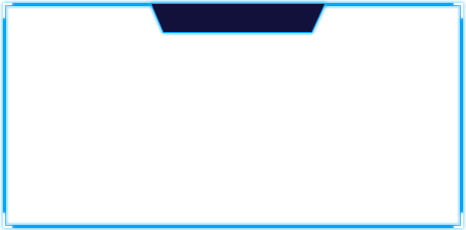
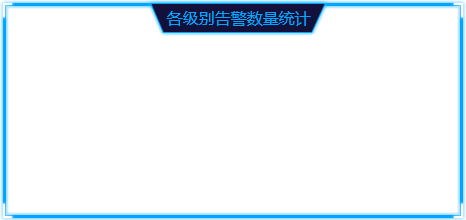
@ 20180118 zhanghs | 各级别告警数量统计

Changed region(s): [[0.3305, 0.0545, 0.691, 0.1636], [0.0, 0.0, 0.9914, 0.0273], [0.03, 0.9545, 0.9914, 0.9818]]

diff --git a/screen-show/css/alarm.scss b/screen-show/css/alarm.scss
@@ -48,7 +48,7 @@
 
         #a_yz_tj {
             display: grid;
-            grid-template-row: 1fr 1fr;
+            grid-template-rows: 1fr 1fr;
             grid-gap: 20px;
 
             > * {
@@ -57,8 +57,46 @@
         }
         /* 各级别告警数量统计 */
         #a_yz_sltj {
-            background-image: url("../img/b4.png");
+            background-image: url("../img/b3.png");
             @include no-repeat;
+
+            h3 {
+                font-size: 18px;
+                font-weight: normal;
+                margin: 0;
+            }
+
+            i {
+                font-size: 12px;
+                font-style: normal;
+            }
+
+
+            .a_infor {
+                display: flex;
+                flex-direction: row;
+                flex-wrap: nowrap;
+                margin-top: 10px;
+
+                > * {
+                    flex-grow: 1;
+                    font-size: 0;
+                    text-align: center;
+                    border-right: 2px solid #00a5ff;
+                }
+
+                > *:last-child {
+                    border-right: none;
+                }
+            }
+
+            .a_main {
+                height: 58px;
+                line-height: 58px;
+                text-align: center;
+                font-size: 0px;
+            }
+
         }
 
         /* 告警数量走势图 */
@@ -107,4 +145,42 @@
 
         }
     }
+
+    h2._h2 {
+        font-size: 24px;
+        text-align: center;
+        font-weight: normal;
+        margin: 0;
+        margin-top: 40px
+    }
+
+
+    [class$="_bigfont"] {
+        font-size: 72px;
+        background-image: linear-gradient(to top, #00a5ff 25%, #71cdff 99%), linear-gradient(#fefeff, #fefeff);
+        -webkit-background-clip: text;
+          background-clip: text;
+          -webkit-text-fill-color: transparent;
+        text-shadow: none;
+    }
+    
+    .a_unit {
+        font-size:24px !important;
+        margin-left: 10px;
+    }
+
+    .a_smallfont {
+        font-size: 30px;
+    }
+
+
+
+
+    // .a_yz_bigfont {
+    //     font-size: 72px;
+    //     font-weight: bold;
+    //     background-image: linear-gradient(to top, rgb(0, 165, 255) 25%, rgb(113, 205, 255) 99%), linear-gradient(rgb(254, 254, 255), rgb(254, 254, 255));
+    //     background-clip: text;
+    //     -webkit-text-fill-color: transparent;
+    // }
 }

diff --git a/screen-show/css/alarm.css b/screen-show/css/alarm.css
@@ -34,15 +34,39 @@
     background-color: black; }
   #alarm #a_yz #a_yz_tj {
     display: grid;
-    grid-template-row: 1fr 1fr;
+    grid-template-rows: 1fr 1fr;
     grid-gap: 20px; }
     #alarm #a_yz #a_yz_tj > * {
       background-color: red; }
   #alarm #a_yz #a_yz_sltj {
-    background-image: url("../img/b4.png");
+    background-image: url("../img/b3.png");
     background-repeat: no-repeat;
     background-size: 100% 100%;
     background-position: center center; }
+    #alarm #a_yz #a_yz_sltj h3 {
+      font-size: 18px;
+      font-weight: normal;
+      margin: 0; }
+    #alarm #a_yz #a_yz_sltj i {
+      font-size: 12px;
+      font-style: normal; }
+    #alarm #a_yz #a_yz_sltj .a_infor {
+      display: flex;
+      flex-direction: row;
+      flex-wrap: nowrap;
+      margin-top: 10px; }
+      #alarm #a_yz #a_yz_sltj .a_infor > * {
+        flex-grow: 1;
+        font-size: 0;
+        text-align: center;
+        border-right: 2px solid #00a5ff; }
+      #alarm #a_yz #a_yz_sltj .a_infor > *:last-child {
+        border-right: none; }
+    #alarm #a_yz #a_yz_sltj .a_main {
+      height: 58px;
+      line-height: 58px;
+      text-align: center;
+      font-size: 0px; }
   #alarm #a_yz #a_yz_slzs {
     background-image: url("../img/b4.png");
     background-repeat: no-repeat;
@@ -76,5 +100,23 @@
     background-repeat: no-repeat;
     background-size: 100% 100%;
     background-position: center center; }
+#alarm h2._h2 {
+  font-size: 24px;
+  text-align: center;
+  font-weight: normal;
+  margin: 0;
+  margin-top: 40px; }
+#alarm [class$="_bigfont"] {
+  font-size: 72px;
+  background-image: linear-gradient(to top, #00a5ff 25%, #71cdff 99%), linear-gradient(#fefeff, #fefeff);
+  -webkit-background-clip: text;
+  background-clip: text;
+  -webkit-text-fill-color: transparent;
+  text-shadow: none; }
+#alarm .a_unit {
+  font-size: 24px !important;
+  margin-left: 10px; }
+#alarm .a_smallfont {
+  font-size: 30px; }
 
 /*# sourceMappingURL=alarm.css.map */

diff --git a/screen-show/alarm.html b/screen-show/alarm.html
@@ -21,7 +21,38 @@
 		<div id="a_yz_tj">
 			<!-- 各级别告警数量统计 -->
 			<div id="a_yz_sltj">
-				
+				<h2 class="_h2">总告警次数</h2>
+				<div class="a_main">
+					<b class="a_bigfont">34</b>
+					<i class="a_unit">次</i>
+				</div>
+				<div class="a_infor">
+					<div id="a_xinxi">
+						<h3>信息</h3>
+						<b class="a_smallfont">20</b>
+						<i>次</i>
+					</div>
+					<div id="a_qingwei">
+						<h3>轻微</h3>
+						<b class="a_smallfont">20</b>
+						<i>次</i>
+					</div>
+					<div id="a_yiban">
+						<h3>一般</h3>
+						<b class="a_smallfont">20</b>
+						<i>次</i>
+					</div>
+					<div id="a_zhongyao">
+						<h3>重要</h3>
+						<b class="a_smallfont">20</b>
+						<i>次</i>
+					</div>
+					<div id="a_jinji">
+						<h3>紧急</h3>
+						<b class="a_smallfont">20</b>
+						<i>次</i>
+					</div>
+				</div>
 			</div>
 			<!-- 告警数量走势图 -->
 			<div id="a_yz_slzs">
